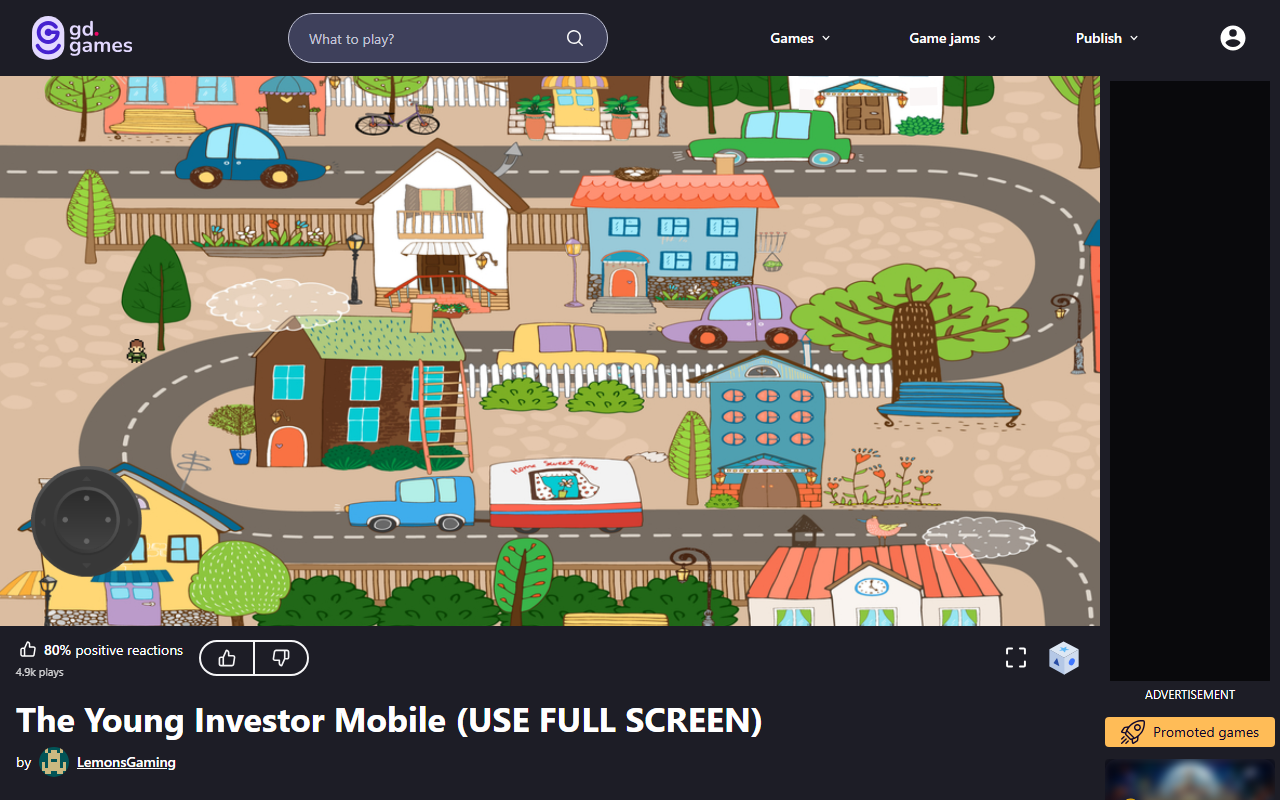
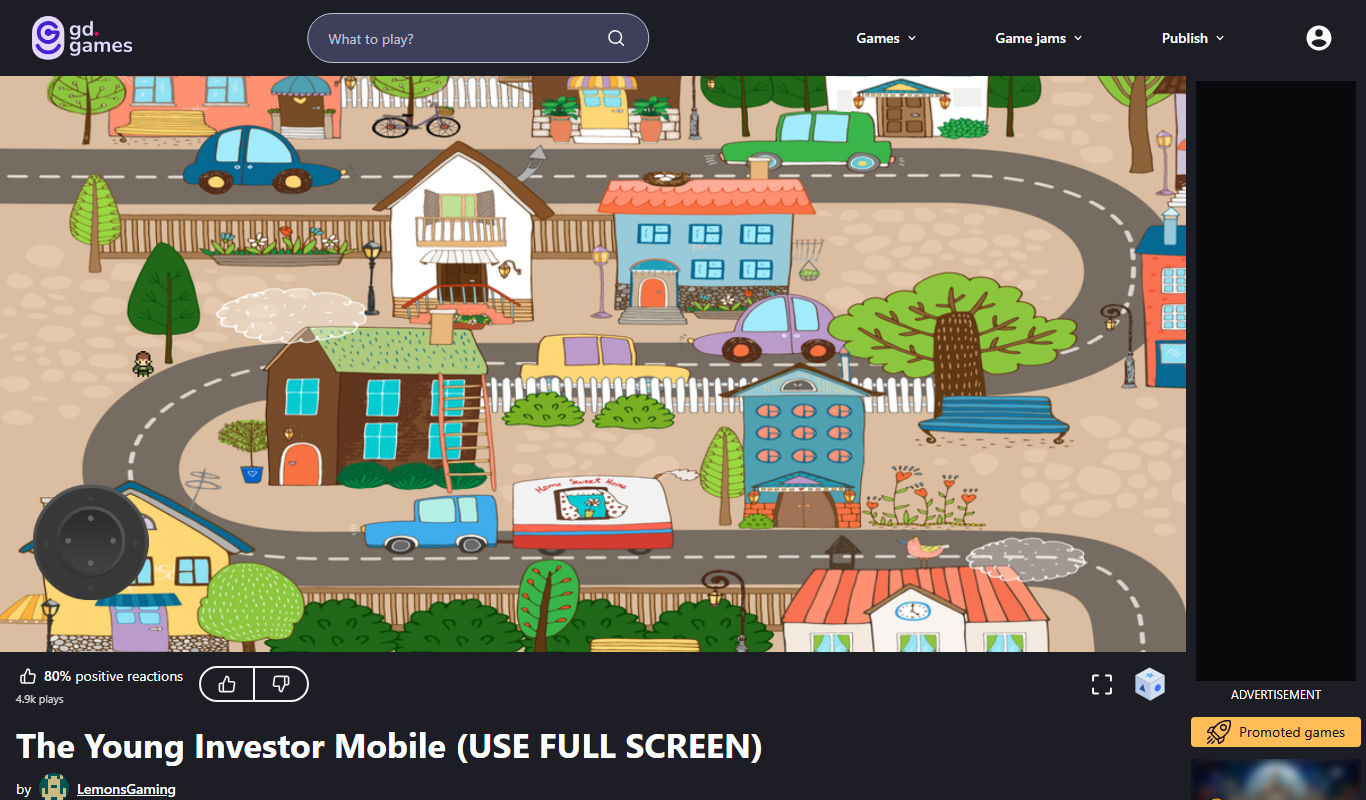
v3.1: gentle motion + better cropping + fixed orphan tile
- Hero bg: slow ken-burns animation (28s loop) for atmospheric drift
- Each game-art: subtle 18-26s drift, staggered start, so the grid
  feels alive without distracting
- young-investor: zoom 165% + favor upper-third to crop liluo.io
  header/footer out
- tap-and-pop: zoom 145% so portrait phone game fills the 16:9 tile
- Orphan last tile (when 7 games in 3-col grid) centers in middle
  column; in 2-col layout becomes a wide 21:9 spanning both columns
- Re-captured tap-and-pop / mini-metro-lesson / young-investor

diff --git a/index.html b/index.html
@@ -116,7 +116,13 @@ body {
   background-size: cover;
   background-position: center;
   filter: blur(2px) saturate(.8) brightness(.45);
-  transform: scale(1.04);
+  transform-origin: center;
+  animation: kenburns 28s ease-in-out infinite alternate;
+}
+@keyframes kenburns {
+  0%   { transform: scale(1.05) translate(0, 0); }
+  50%  { transform: scale(1.12) translate(-1.5%, 1%); }
+  100% { transform: scale(1.07) translate(1.5%, -1%); }
 }
 .hero-overlay {
   position: absolute; inset: 0; z-index: -1;
@@ -288,7 +294,14 @@ body {
   background-position: center;
   transition: transform .9s cubic-bezier(.2,.7,.2,1), filter .35s;
   filter: saturate(.9) brightness(.85);
+  animation: drift 18s ease-in-out infinite alternate;
 }
+@keyframes drift {
+  0%   { transform: scale(1.02) translate(0, 0); }
+  100% { transform: scale(1.05) translate(1%, -1%); }
+}
+.game:nth-child(2n) .game-art { animation-duration: 22s; animation-delay: -6s; }
+.game:nth-child(3n) .game-art { animation-duration: 26s; animation-delay: -12s; }
 .game-shade {
   position: absolute; inset: 0; z-index: 1;
   background:
@@ -351,9 +364,30 @@ body {
 .game[data-id="Magnetic-Mission"]      .game-art { background-image: url('assets/screens/Magnetic-Mission.png'); }
 .game[data-id="break-the-word"]        .game-art { background-image: url('assets/screens/break-the-word.png'); }
 .game[data-id="geography-puzzle-game"] .game-art { background-image: url('assets/screens/geography-puzzle-game.png'); }
-.game[data-id="young-investor"]        .game-art { background-image: url('assets/screens/young-investor.png'); background-position: top center; }
-.game[data-id="tap-and-pop"]           .game-art { background-image: url('assets/screens/tap-and-pop.png'); }
+.game[data-id="young-investor"]        .game-art {
+  background-image: url('assets/screens/young-investor.png');
+  background-size: 165%;
+  background-position: center 38%;
+}
+.game[data-id="tap-and-pop"]           .game-art {
+  background-image: url('assets/screens/tap-and-pop.png');
+  background-size: 145%;
+  background-position: center 48%;
+}
 .game[data-id="mini-metro-lesson"]     .game-art { background-image: url('assets/screens/mini-metro-lesson.png'); }
+
+/* If there are 7 games (last one orphaned in a 3-col row), center it */
+@media (min-width: 961px) {
+  .games-grid .game:last-child:nth-child(3n + 1) {
+    grid-column: 2 / 3;
+  }
+}
+@media (min-width: 601px) and (max-width: 960px) {
+  .games-grid .game:last-child:nth-child(2n + 1) {
+    grid-column: 1 / 3;
+    aspect-ratio: 21 / 9;
+  }
+}
 
 /* ────────── MANIFESTO STRIP (klei: WE PUBLISH GAMES TOO style) ────────── */
 .manifesto {